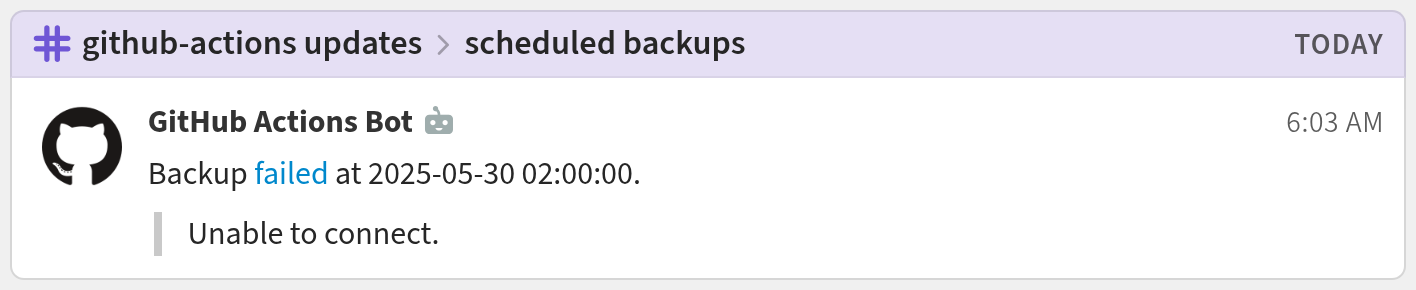
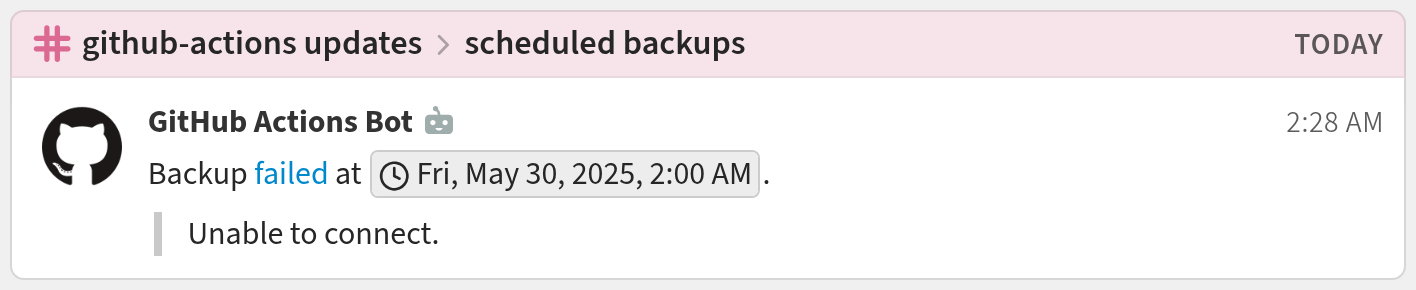
integrations: Use global time in GitHub Actions & OpenShift screenshots.

diff --git a/zerver/webhooks/fixtureless_integrations.py b/zerver/webhooks/fixtureless_integrations.py
@@ -50,8 +50,7 @@ TICKET_NUMBER = THREE_DIGIT_NUMBER
 # Example datetime content
 _DT = datetime(2025, 5, 30, 2, 0, 0, tzinfo=timezone.utc)
 
-DATETIME_STAMP = _DT.strftime("%Y-%m-%d %H:%M:%S")
-DATETIME_GLOBAL = f"<time:{_DT.strftime('%Y-%m-%dT%H:%M:%S%z')}>"
+DATETIME_GLOBAL = f"<time:{_DT}>"
 
 DATE_ISO_8601 = _DT.strftime("%Y-%m-%d")
 DATE_LONG = _DT.strftime("%A, %B %d, %Y")
@@ -97,7 +96,7 @@ GIT = ScreenshotContent(
 
 GITHUB_ACTIONS = ScreenshotContent(
     topic="scheduled backups",
-    content=f"""Backup [failed]() at {DATETIME_STAMP}.
+    content=f"""Backup [failed]() at {DATETIME_GLOBAL}.
 > Unable to connect.""",
 )
 
@@ -155,7 +154,7 @@ Can we reschedule this to next week?""",
 
 OPENSHIFT = ScreenshotContent(
     topic=PROJECT_NAME,
-    content=f"""Deployment [{REVISION_NUMBER}]() triggered by a push to **{BRANCH_GIT}** by commit [{COMMIT_HASH_A[:7]}]() at {DATETIME_STAMP} has **failed**.""",
+    content=f"""Deployment [{REVISION_NUMBER}]() triggered by a push to **{BRANCH_GIT}** by commit [{COMMIT_HASH_A[:7]}]() at {DATETIME_GLOBAL} has **failed**.""",
 )
 
 PERFORCE = ScreenshotContent(
